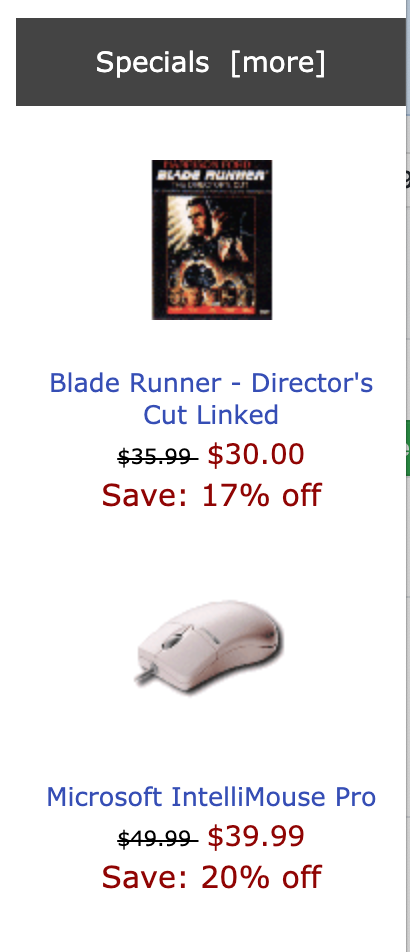
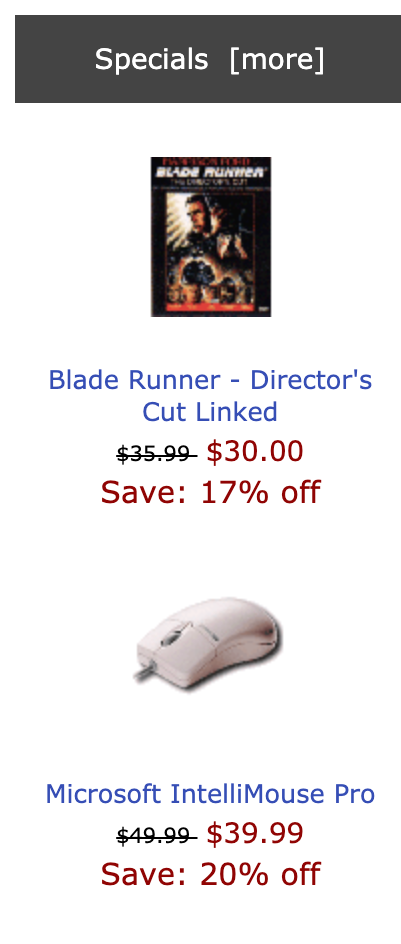
Update sidebox content, add page content

diff --git a/content/user/template/sideboxes.md b/content/user/template/sideboxes.md
@@ -7,15 +7,16 @@ weight: 10
 
 Sideboxes are narrow pieces of content that are displayed on the left and right side of the screen in the Zen Cart storefront in a desktop view.  (The smaller width of a mobile screen means they are put in the middle of the screen on such devices.)
 
-Zen Cart has a number of built in sideboxes; other sideboxes are available in the [sideboxes section of the Zen Cart plugins library](https://www.zen-cart.com/downloads.php?do=cat&id=12). 
+Zen Cart has a number of built in sideboxes; other sideboxes are available in the [sideboxes section of the Zen Cart plugins library](https://www.zen-cart.com/downloads.php?do=cat&id=12).  For example, the [Blank Sidebox](https://www.zen-cart.com/downloads.php?do=file&id=80) allows you to create your own sidebox with whatever content you wish. 
 
 You can learn about [controlling sideboxes in the admin](/user/admin/sideboxes/) so that you only display the sideboxes that are most important to your store. 
 
 The Information Sidebox, for example, is just a list of links. 
 
-<img alt="Information Sidebox" src="/images/information_sidebox.png" width="40%" />
+<img alt="Information Sidebox" src="/images/information_sidebox.png" width="35%" />
 
 The Specials Sidebox, on the other hand, shows product images and information. 
 
-<img alt="Specials Sidebox" src="/images/specials_sidebox.png" width="40%" />
+<img alt="Specials Sidebox" src="/images/specials_sidebox.png" width="35%" />
 
+You can see all the available sideboxes in the [sidebox list](/user/sideboxes/sidebox_list/) FAQ. 

diff --git a/content/user/template/mobile_mode.md b/content/user/template/mobile_mode.md
@@ -5,6 +5,8 @@ category: template
 weight: 10
 ---
 
+Responsiveness - the ability to display properly on not just a desktop computer, but also mobile devices like phones and tablets - is a critical feature of modern templates. 
+
 You frequently want to do different things depending on whether your
 site is being viewed in mobile or on the desktop.  
 
@@ -13,6 +15,7 @@ are running, and what tools are available with that template.
 
 The `responsive_classic` template, as well as many other templates,
 builds in the [Mobile_Detect](http://mobiledetect.net/) library.  
+
 Use this to query the environment and react accordingly. 
 
 ```
@@ -44,5 +47,5 @@ Another approach is **not to use** any offsite scripting or mobile detection scr
 
 There is a movement in responsive design that requires some forward thinking in coding.  Using tables for true spreadsheet style lists only and nesting DIV tags and CSS for responsive designs.  By thinking of div tags as containers in layout designs you can create a responsive layout without using any scripting.  
 
-The desire to support different screens are even pushing a change in browsers and demanding a change in HTML. With Cascading Style Sheets CSS3 which is growing in versions so fast that version numbers are no longer used... 
+The desire to support different screens are even pushing a change in browsers and demanding a change in HTML. With Cascading Style Sheets CSS3 which is growing in versions so fast that version numbers are no longer used.
 

diff --git a/content/user/template/pages.md b/content/user/template/pages.md
@@ -1,0 +1,31 @@
+---
+title: Pages in the storefront 
+description: What is a page? 
+category: templates
+weight: 10 
+type: codepage 
+---
+
+The Zen Cart storefront is created when the software builds *pages*. 
+For example, when a user browses
+
+```
+https://YOURSTORE.com/index.php?main_page=specials 
+```
+
+The page which is displayed is the Specials page.  The parts and layout of pagesis shown in the [page format](/user/template/page_format/) FAQ. 
+
+The following types of pages are provided by Zen Cart: 
+
+a) Standard pages, such as product_info, where the focus is one one thing.  On the product info page, the focus is on the product being viewed.
+
+b) Listing pages, such as specials, which show multiple products.
+
+c) Define pages, such as the Shipping Information page, which display content created by the storeowner.  A fixed set of define pages is provided. 
+
+d) EZ-Pages, which display content according to the needs of the storeowner; an unliminted number of EZ-Pages may be created.  
+
+In addition, pages may also be added to a store using these plugins: 
+
+- [About Us page](https://www.zen-cart.com/downloads.php?do=file&id=86) 
+- [Skinny About Us page](https://www.zen-cart.com/downloads.php?do=file&id=2198) 

diff --git a/content/user/template/what_is_a_template.md b/content/user/template/what_is_a_template.md
@@ -1,0 +1,25 @@
+---
+title: What is a Template? 
+description: Basic information about about Templates in Zen Cart
+category: templates
+weight: -5
+---
+
+Before you read this article, please be sure you are familiar with 
+[Basic Terms](/user/first_steps/basic_terms/) used in describing
+Zen Cart files. 
+
+---
+
+A template (sometimes called a "theme") is a set of files that controls how
+the Zen Cart storefront looks like.  
+
+The following list outlines the elements of a template: 
+
+- [Pages](/user/template/pages) - how content display is structured
+- [Sideboxes](/user/template/sideboxes) - narrow pieces of content that are placed on the left and right edges of all pages
+- [Centerboxes](/user/template/centerboxes) - wide pieces of content that are placed in the center of the page on specific pages 
+- [Stylesheet](http://localhost:1313/user/template/stylesheet/) - the CSS that controls the layout of the site 
+- [Responsiveness](/user/template/mobile_mode/) - modern templates must look good on mobile devices like phones and tablets 
+
+

diff --git a/content/user/template/page_format.md b/content/user/template/page_format.md
@@ -1,0 +1,38 @@
+---
+title: Page format in the storefront 
+description: What are the parts of a page?
+category: templates
+weight: 10 
+type: codepage 
+---
+
+This screenshot below shows the top of a page in a Zen Cart storefront on a desktop computer. 
+
+![Page top](/images/page_top.png)
+
+Legend:
+
+- a: page header
+- b: left sidebox  
+- c: centerbox 
+- d: right sidebox 
+
+This screenshot below shows the bottom of a page in a Zen Cart storefront. 
+The entire width of the page is taken up by the footer.
+
+![Page bottom](/images/page_bottom.png)
+
+<br><br>
+
+Because of the reduced screensize on a mobile device, pages look different. 
+
+Here's the same page on a mobile phone: 
+
+<img alt="Page on a phone" src="/images/page_phone.png" width="40%" />
+
+And here's the same page on a tablet: 
+
+<img alt="Page on a tablet" src="/images/page_tablet.png" width="80%" />
+
+On those devices, the hamburger menu on the top left allows you to view additional page content. 
+

diff --git a/content/user/products/category_management_admin.md b/content/user/products/category_management_admin.md
@@ -33,7 +33,7 @@ It is best to remove or move any sub-categories or products under a category you
 <img src="/images/delete_category_sidebar.png" alt="Deleting a category" width="50%" />
 
 ### Moving a Category 
-Moving a category changes its place in the hiearchy.  
+Moving a category changes its place in the hierarchy.  
 Moving a category is done from the [Categories/Products](/user/admin_pages/catalog/categories_products/) screen using the purple M icon. 
 
 <img src="/images/move_category_sidebar.png" alt="Moving a category" width="50%" />

diff --git a/content/user/admin/sideboxes.md b/content/user/admin/sideboxes.md
@@ -9,4 +9,4 @@ weight: 10
 
 Sideboxes display is controlled by [Admin > Tools > Layout Boxes Controller](/user/admin_pages/tools/layout_boxes_controller/). 
 
-You can also turn sideboxes off on a per page basis by modifying the file `includes/templates/YOURTEMPLATE/common/tpl_main_page.php`.
+You can also turn sideboxes off on a per page basis by modifying your template.  See [suppressing sidebox display](/user/sideboxes/suppressing_sidebox_display/) for details. 
